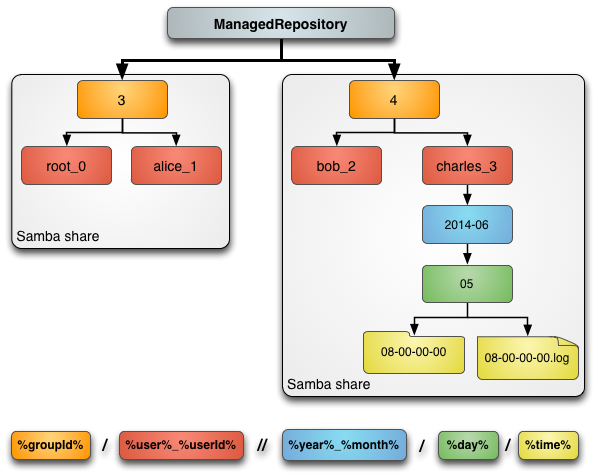
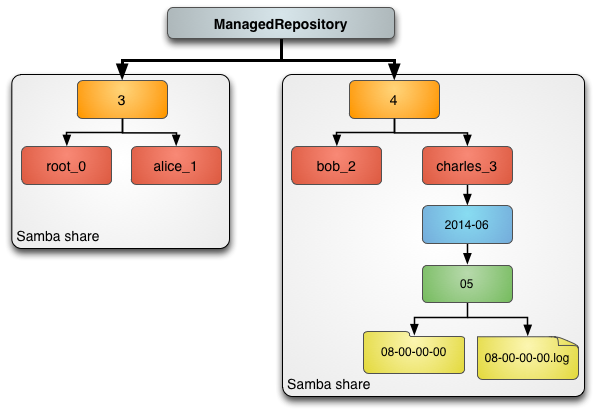
Remove templates from samba diagrams and enlarge

diff --git a/2014/fs-workshop-paris/index.html b/2014/fs-workshop-paris/index.html
@@ -736,9 +736,9 @@ omero.fs.repo.path=<b style="font-size: 115%">%user%_%userId%//%year%-%month%/%d
         <section>
 
           <section>
-            <h3>Samba</h3>
+            <h3>Samba: per group</h3>
             <img alt="Samba usage diagram"
-                src="diagrams/samba_group.png" width="75%"/>
+                src="diagrams/samba_group.png" width="90%"/>
             <aside class="notes">
               <p>
                 For example, depending on the template, each
@@ -755,9 +755,9 @@ omero.fs.repo.path=<b style="font-size: 115%">%user%_%userId%//%year%-%month%/%d
           </section>
 
           <section>
-            <h3>Samba</h3>
+            <h3>Samba: per user</h3>
             <img alt="Samba usage diagram"
-                src="diagrams/samba_user.png" width="75%"/>
+                src="diagrams/samba_user.png" width="90%"/>
             <aside class="notes">
               <p>
                 For example, depending on the template, each
